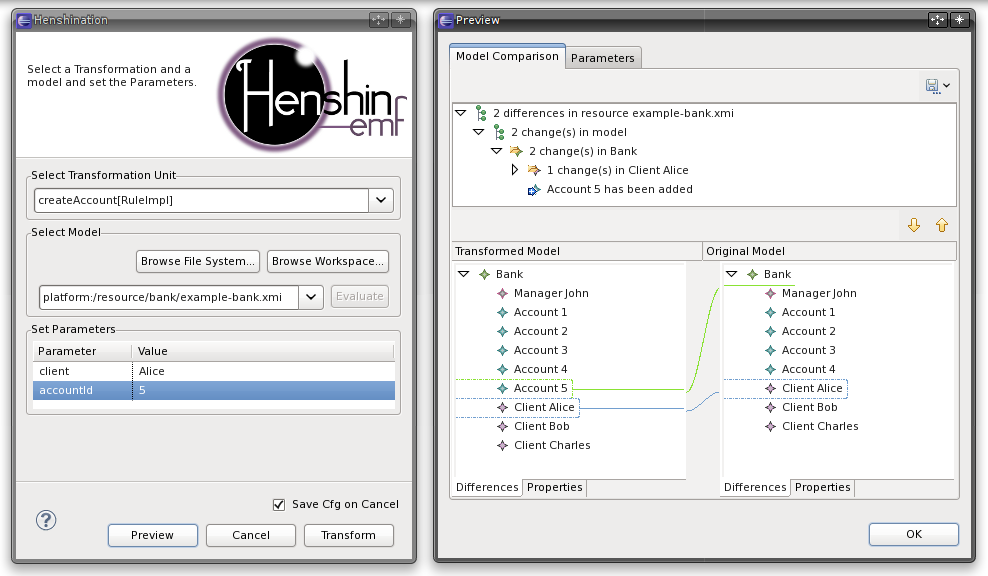
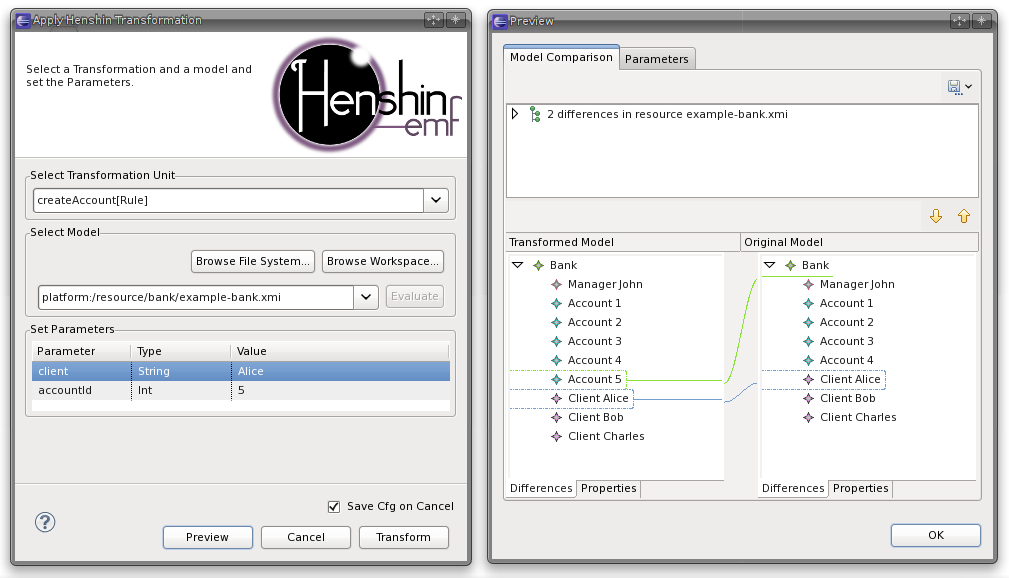
updated example

Changed region(s): [[0.0, 0.0, 1.0, 1.0]]

diff --git a/emft/henshin/examples/bank/index.html b/emft/henshin/examples/bank/index.html
@@ -188,9 +188,27 @@ be specified) and click on <i>Preview</i> to see the changes.
 <a href="examples/bank/apply-create-account.png"><image src="examples/bank/apply-create-account.png" align="right" width="200" /></a>
 <br>
 <br>
-An application of the ruleThe rule <i>createAccount(client)</i>
-is shown on the right. As parameters we specified <i>client="Alice"</i>
-and <i>accountId=5</i>. The preview window on the right shows the
+An application of the rule <i>createAccount(client)</i>
+is shown on the right. As parameters we specified <i>client=Alice</i>
+with type <i>String</i>, and <i>accountId=5</i> with type <i>Int</i>. 
+The preview window on the right shows the
+result of applying the rule with these parameters.
+<br>
+<br>
+<br>
+</p>
+
+<p>
+<a href="examples/bank/apply-transfer-money.png"><image src="examples/bank/apply-transfer-money.png" align="right" width="200" /></a>
+<br>
+<br>
+An application of the rule <i>transferMoney</i>
+is shown on the right. We have specified the parameters <i>client</i>,
+<i>fromId</i>, <i>toid</i> and <i>amount</i>. The other parameters
+are automatically matched by the transformation engine. Note also
+that is important to specify the correct parameter types, because
+otherwise the rule cannot be matched.
+The preview window on the right shows the
 result of applying the rule with these parameters.
 <br>
 <br>
@@ -202,7 +220,8 @@ result of applying the rule with these parameters.
 <br>
 <br>
 An application of the ruleThe rule <i>deleteAllAccounts(client)</i>
-is shown on the right. As parameter we specified <i>client="Charles"</i>. 
+is shown on the right. As parameter we specified <i>client=Charles</i> 
+with type <i>String</i>.
 The preview window on the right shows the
 result of applying the rule with these parameters.
 <br>
